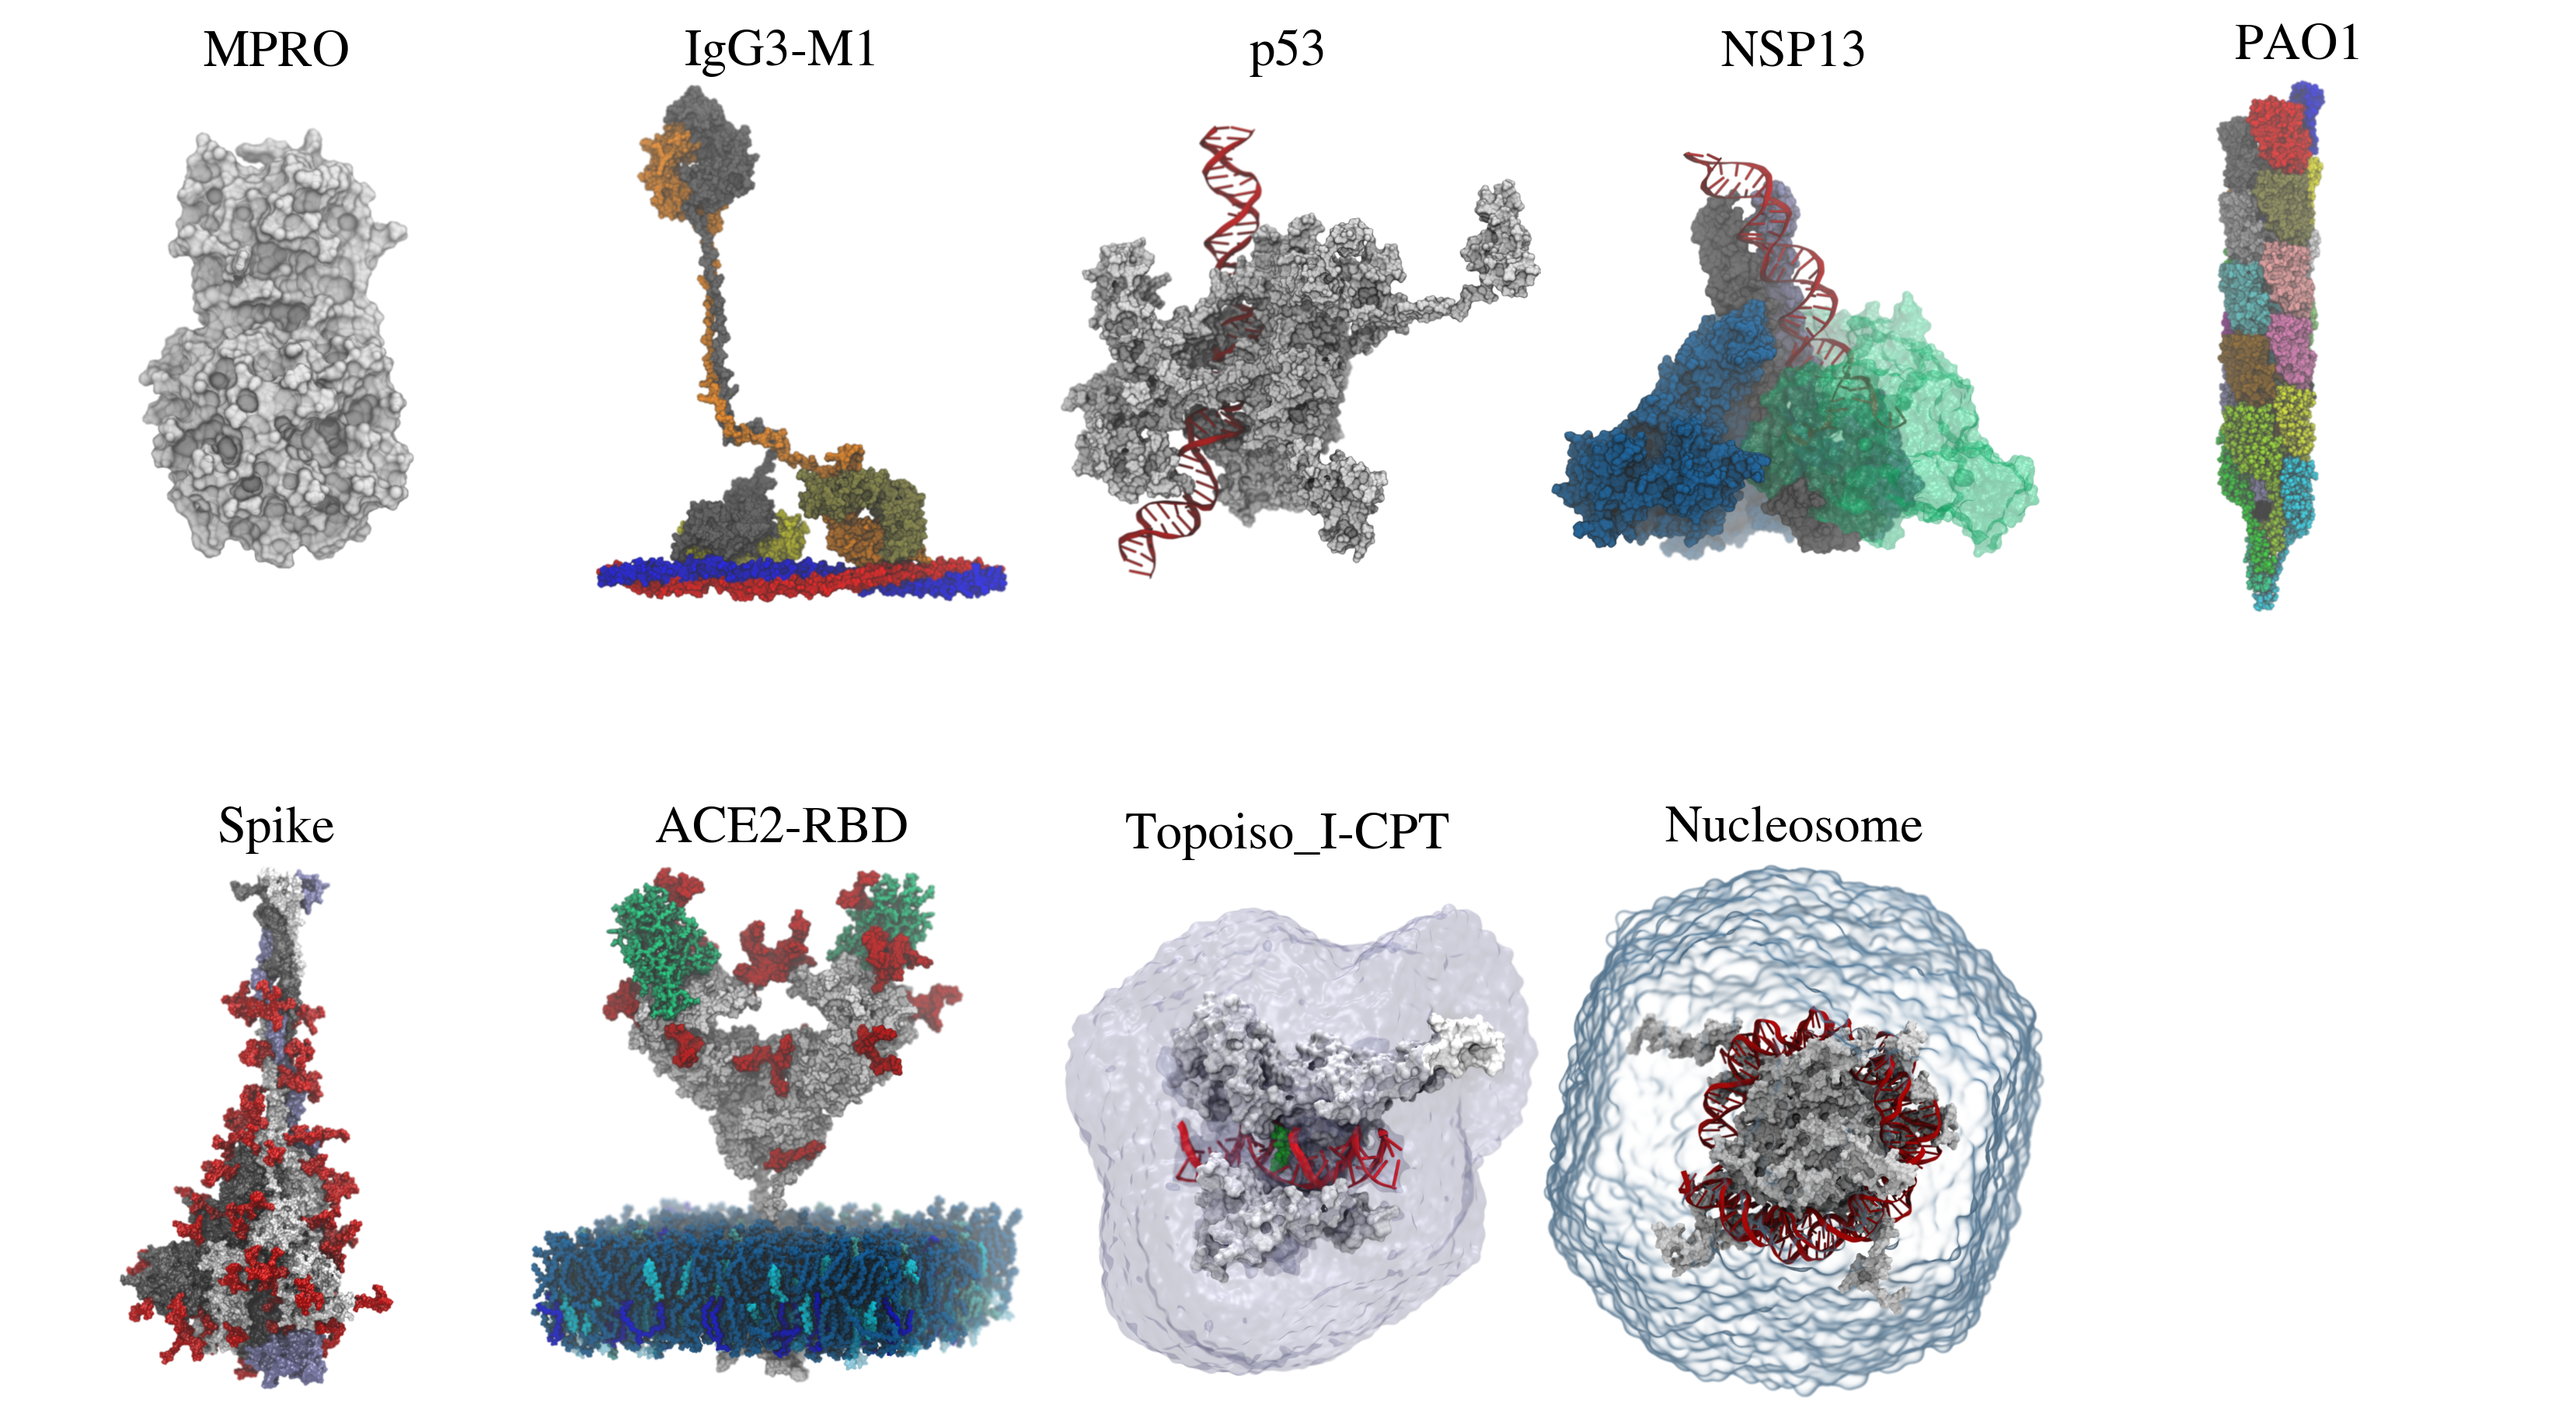
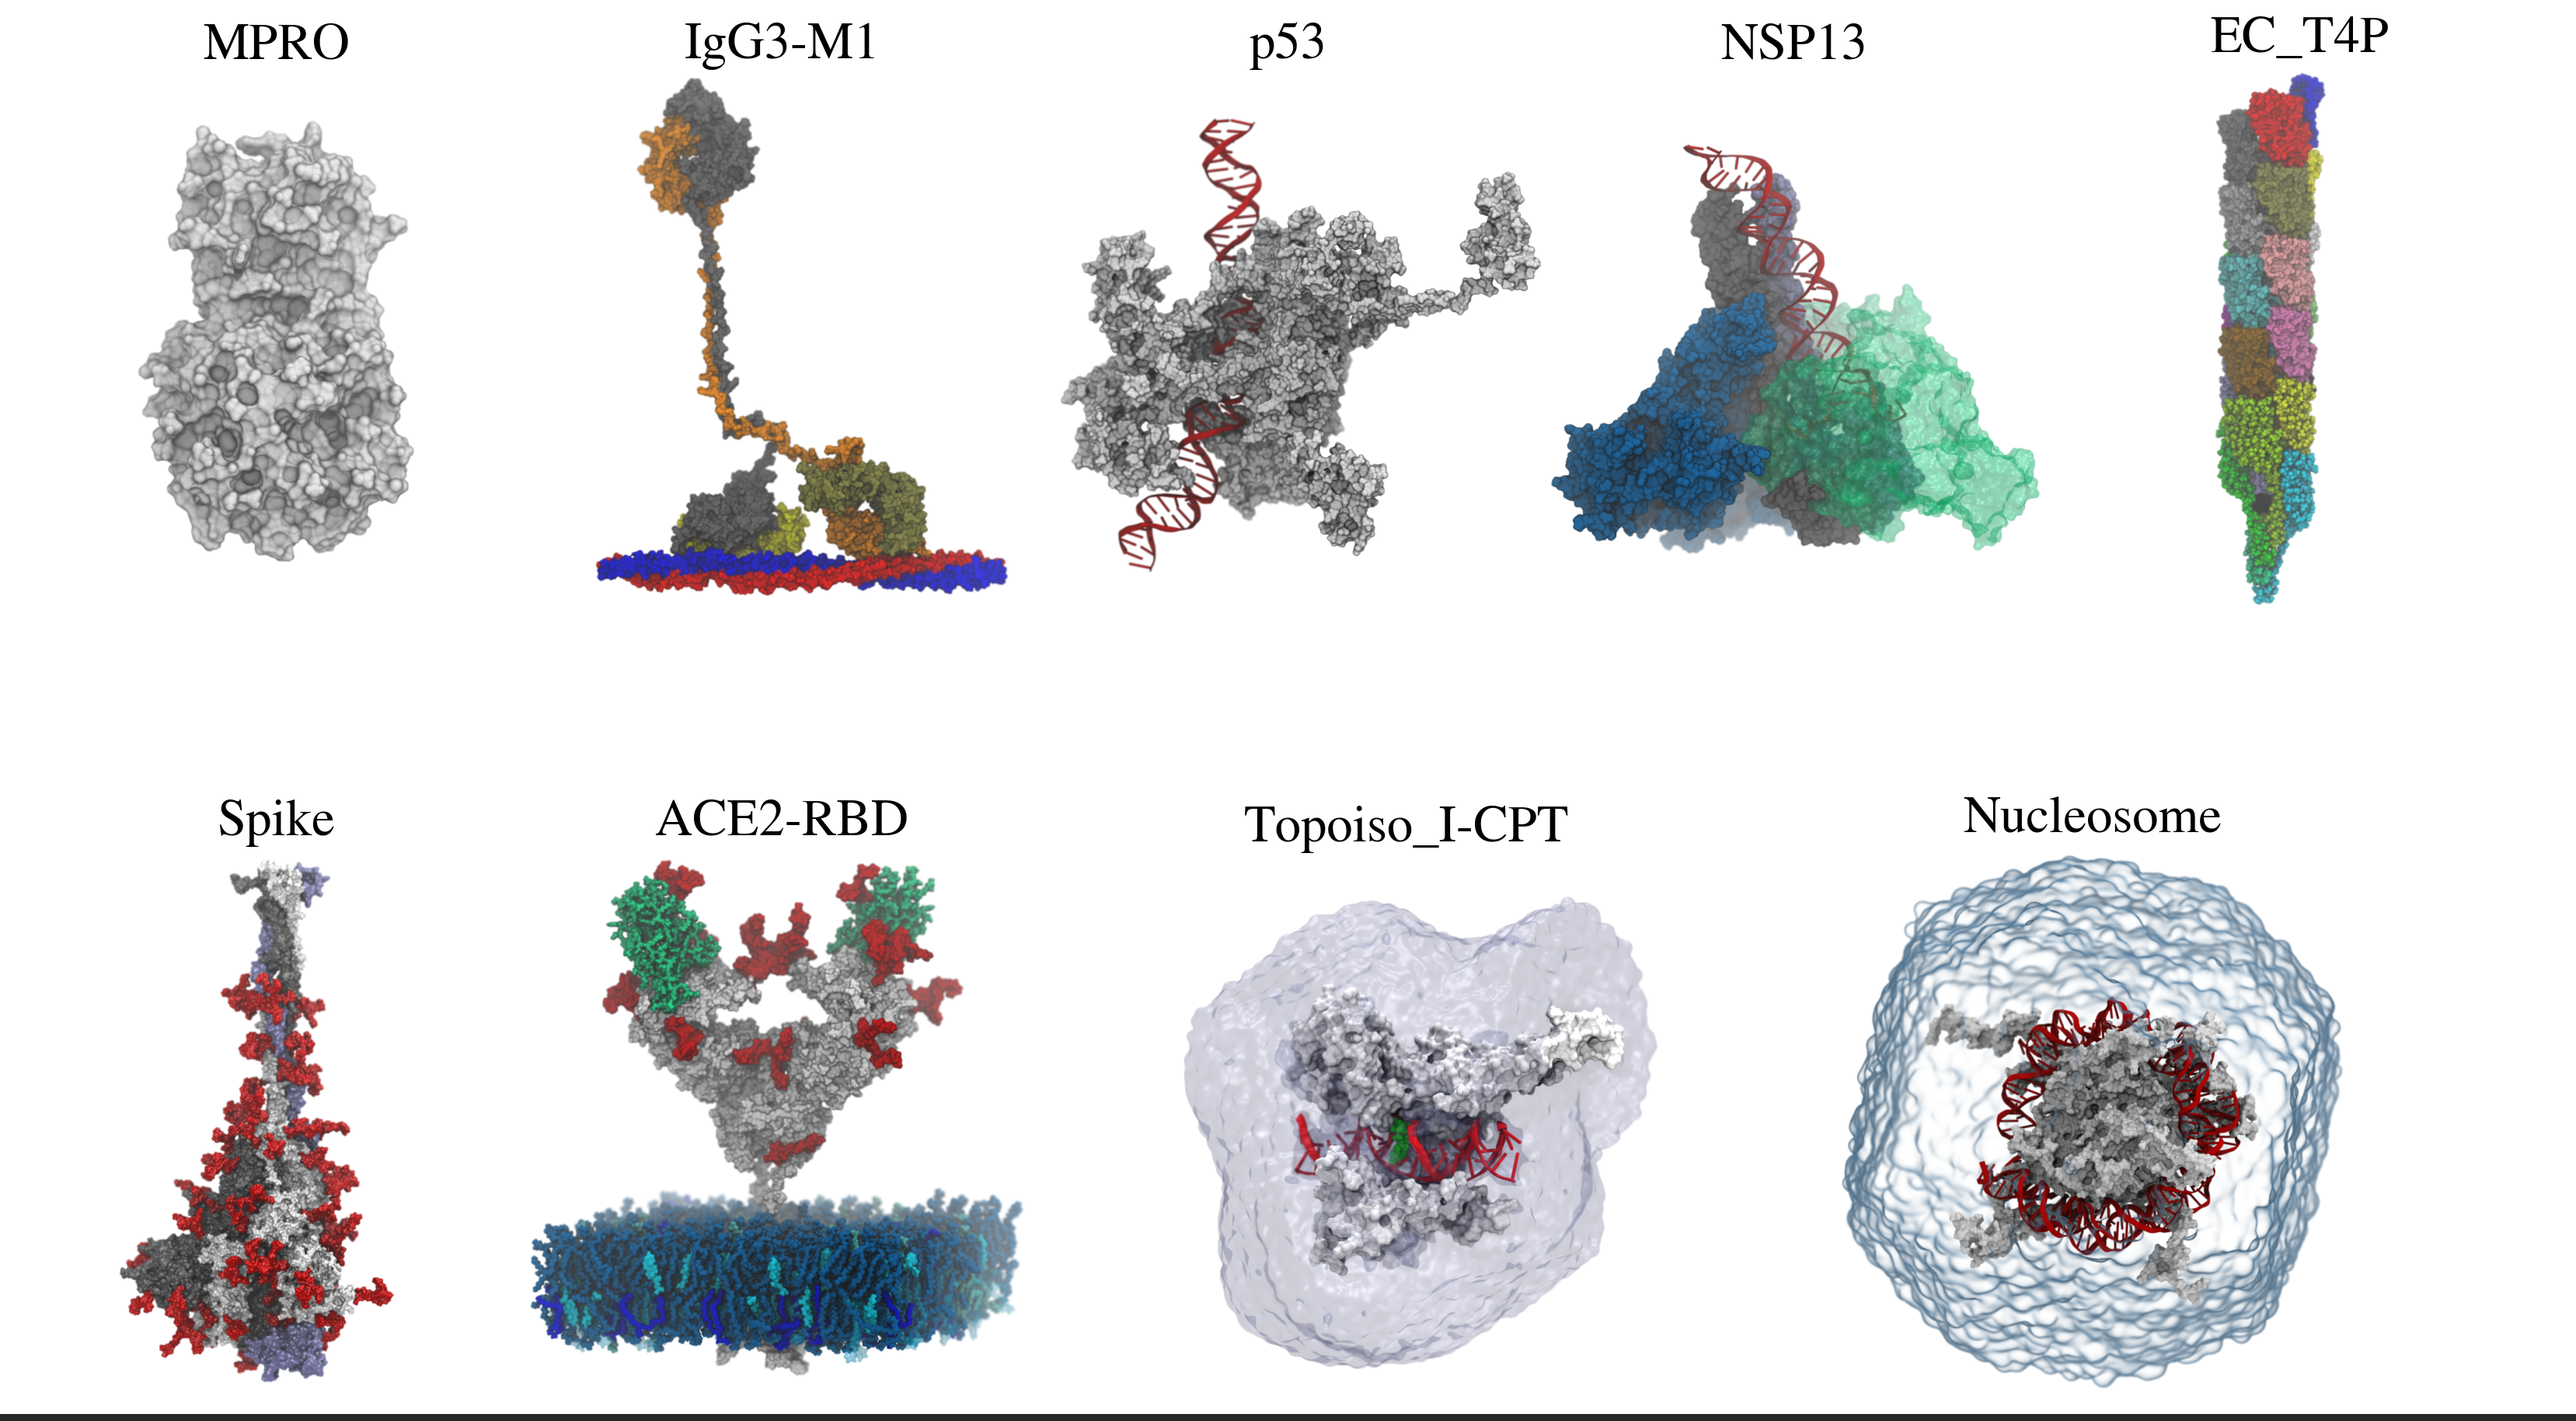
[NF] Add new plot of identity

diff --git a/scripts/scalability/02-plot.py b/scripts/scalability/02-plot.py
@@ -40,9 +40,8 @@ def parse_performance(txt):
     return round(time / 60, 2), round(ram, 2), status
 
 
-def plot_block(matrix, axis, cmap, vmin=None, vmax=None):
-    im1 = axis.imshow(matrix, cmap=cmap, aspect='auto',
-                      vmin=vmin, vmax=vmax,
+def plot_block(matrix, axis, cmap, norm=None):
+    im1 = axis.imshow(matrix, cmap=cmap, norm=norm, aspect='auto',
                       alpha=cmp.alpha1)
 
     axis.set_yticks(range(len(matrix.index)))
@@ -59,6 +58,8 @@ def plot_block(matrix, axis, cmap, vmin=None, vmax=None):
     return im1
 
 
+
+
 def plot_colorbar(ax1, ax2, im1, title=None):
     cax, kw = matplotlib.colorbar.make_axes([ax1, ax2])
     cb = plt.colorbar(im1, cax=cax, **kw)
@@ -73,8 +74,9 @@ def plot_colorbar(ax1, ax2, im1, title=None):
 # User-defined variables
 # =============================================================================
 user = os.getenv('USER')
-root_dir = f'/media/{user}/Roy2TB/RoyData/intermap/SCALABILITY-FINAL/mpro_copy/'
+root_dir = f'/media/{user}/Roy5T/RoyData/intermap/SCALABILITY-FINAL/mpro_copy/'
 out_dir = root_dir
+os.makedirs(out_dir, exist_ok=True)
 # =============================================================================
 
 # Find all .txt files in the root directory
@@ -115,7 +117,7 @@ axs[1, 1].set_visible(False)
 ax_atom_ram = axs[2, 1]
 ax_resid_ram = axs[2, 0]
 
-fs1 = 14
+fs1 = 20
 ax_atom_time.set_title('Resolution: "atom"', fontweight='bold', fontsize=fs1)
 ax_atom_ram.set_title('Resolution: "atom"', fontweight='bold', fontsize=fs1)
 ax_resid_ram.set_title('Resolution: "residue"', fontweight='bold',
@@ -134,22 +136,33 @@ resid_ram = residic.pivot(index='chunk_size', columns='n_procs',
                           values='ram')
 
 # Plot time
-minim = min(atom_time.min().min(), resid_time.min().min())
-maxim = max(atom_time.max().max(), resid_time.max().max())
-im1 = plot_block(atom_time, ax_atom_time, cmap=cmp.cmap1, vmin=minim,
-                 vmax=maxim)
-im2 = plot_block(resid_time, ax_resid_time, cmap=cmp.cmap1, vmin=minim,
-                 vmax=maxim)
+# minim = min(atom_time.min().min(), resid_time.min().min())
+# maxim = max(atom_time.max().max(), resid_time.max().max())
+minim = 4
+maxim = 64
+N = 10
+bounds = np.linspace(minim, maxim, N + 1)
+bounds = np.round(bounds).astype(int)
+norm = matplotlib.colors.BoundaryNorm(bounds, N)
+im1 = plot_block(atom_time, ax_atom_time, cmap=cmp.cmap1, norm=norm)
+im2 = plot_block(resid_time, ax_resid_time, cmap=cmp.cmap1, norm=norm)
 plot_colorbar(ax_atom_time, ax_resid_time, im1, title='Time (min)')
 
-# Plot ram
-minim = min(atom_ram.min().min(), resid_ram.min().min())
-maxim = max(atom_ram.max().max(), resid_ram.max().max())
-im1 = plot_block(atom_ram, ax_atom_ram, cmap=cmp.cmap1, vmin=minim, vmax=maxim)
-im2 = plot_block(resid_ram, ax_resid_ram, cmap=cmp.cmap1, vmin=minim,
-                 vmax=maxim)
 
+# Plot ram
+# Plot ram
+# minim = min(atom_ram.min().min(), resid_ram.min().min())
+# maxim = max(atom_ram.max().max(), resid_ram.max().max())
+minim= 300
+maxim = 1200
+N = 10
+bounds = np.linspace(minim, maxim, N + 1)
+bounds = np.round(bounds).astype(int)
+norm = matplotlib.colors.BoundaryNorm(bounds, N)
+im1 = plot_block(atom_ram, ax_atom_ram, cmap=cmp.cmap1, norm=norm)
+im2 = plot_block(resid_ram, ax_resid_ram, cmap=cmp.cmap1, norm=norm)
 plot_colorbar(ax_atom_ram, ax_resid_ram, im1, title='RAM (MB)')
+
 
 # Set labels
 ax_atom_ram.set_xlabel('# Processors', fontweight='roman')

diff --git a/scripts/description/description-plot.py b/scripts/description/description-plot.py
@@ -165,7 +165,7 @@ plot_img(mpro, images['mpro1.png'], 'MPRO')
 plot_img(igg, images['M1_IgG3.png'], 'IgG3-M1')
 plot_img(p53, images['p53.png'], 'p53')
 plot_img(nsp13, images['nsp13.png'], 'NSP13')
-plot_img(pao1, images['PAO1_prot.png'], 'PAO1')
+plot_img(pao1, images['PAO1_prot.png'], 'EC_T4P')
 plot_img(spike, images['spike.png'], 'Spike')
 plot_img(ace2, images['ACE2.png'], 'ACE2-RBD')
 plot_img(mdlr, images['mdlr.png'], 'Topoiso_I-CPT')

diff --git a/scripts/commonplots.py b/scripts/commonplots.py
@@ -1,7 +1,15 @@
 # Created by gonzalezroy at 4/2/25
+import matplotlib
 import matplotlib as mpl
+import matplotlib.pyplot as plt
+import numpy as np
 
-cmap1 = 'tab10'
+# choose number of discrete colors
+
+
+N = 10  # number of discrete colors
+colors = plt.cm.RdYlGn_r(np.linspace(0.05, 0.95, N))
+cmap1 = matplotlib.colors.ListedColormap(colors)
 
 alpha1 = 0.75
 alpha2 = 0.50
